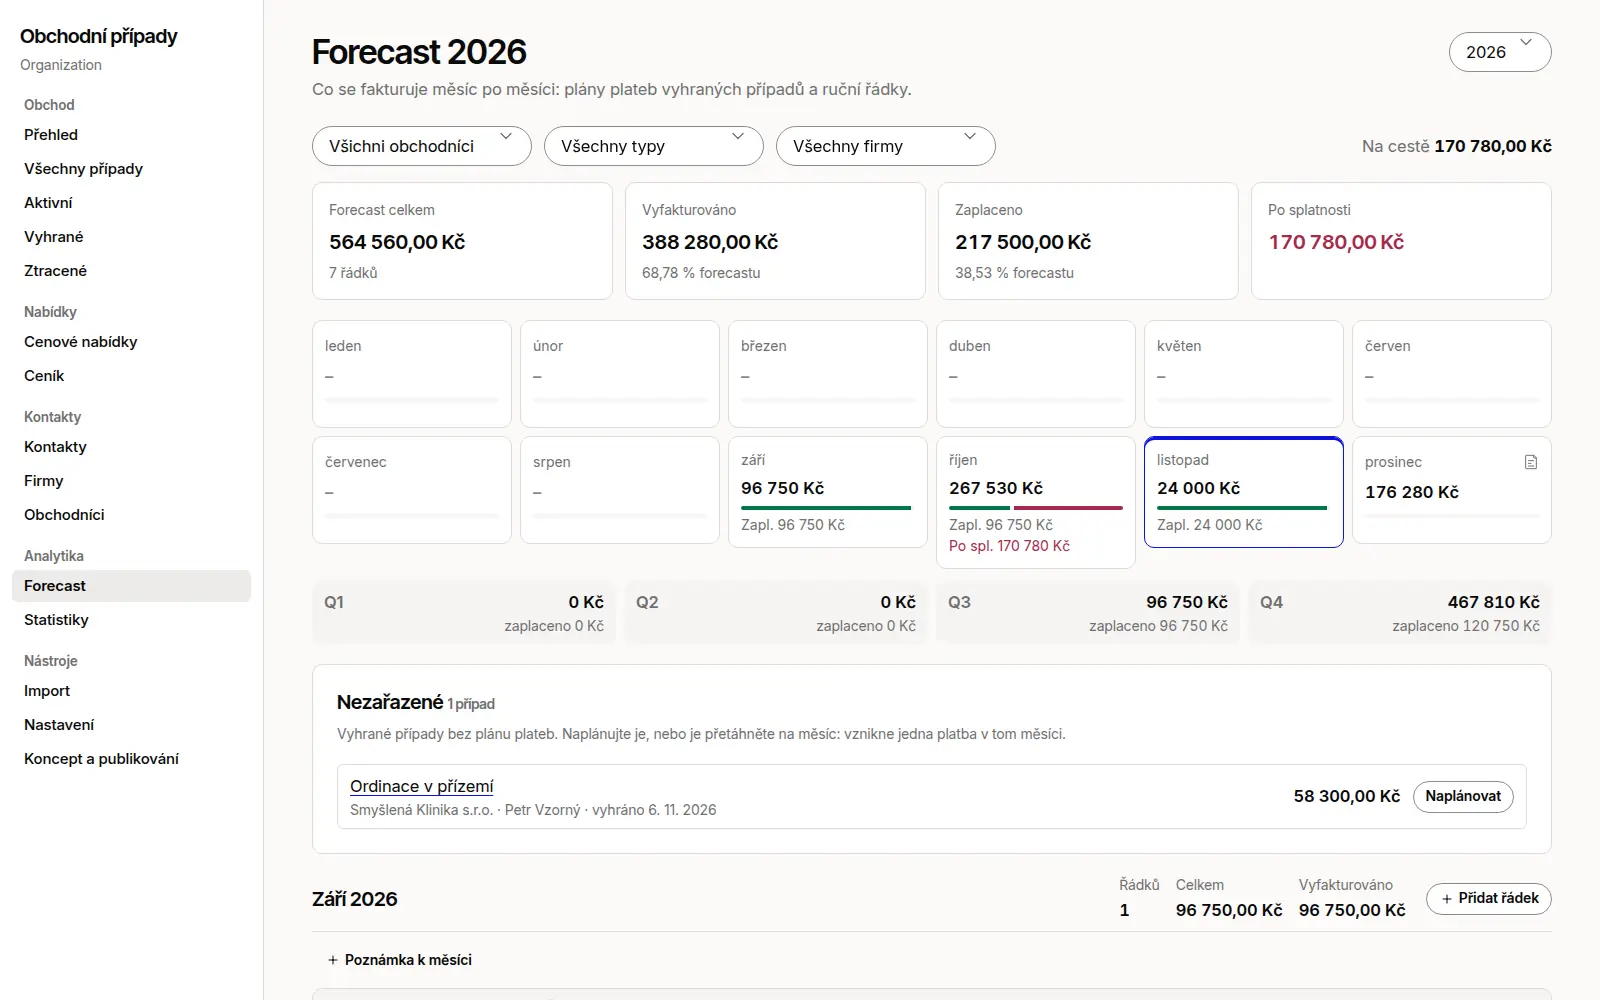
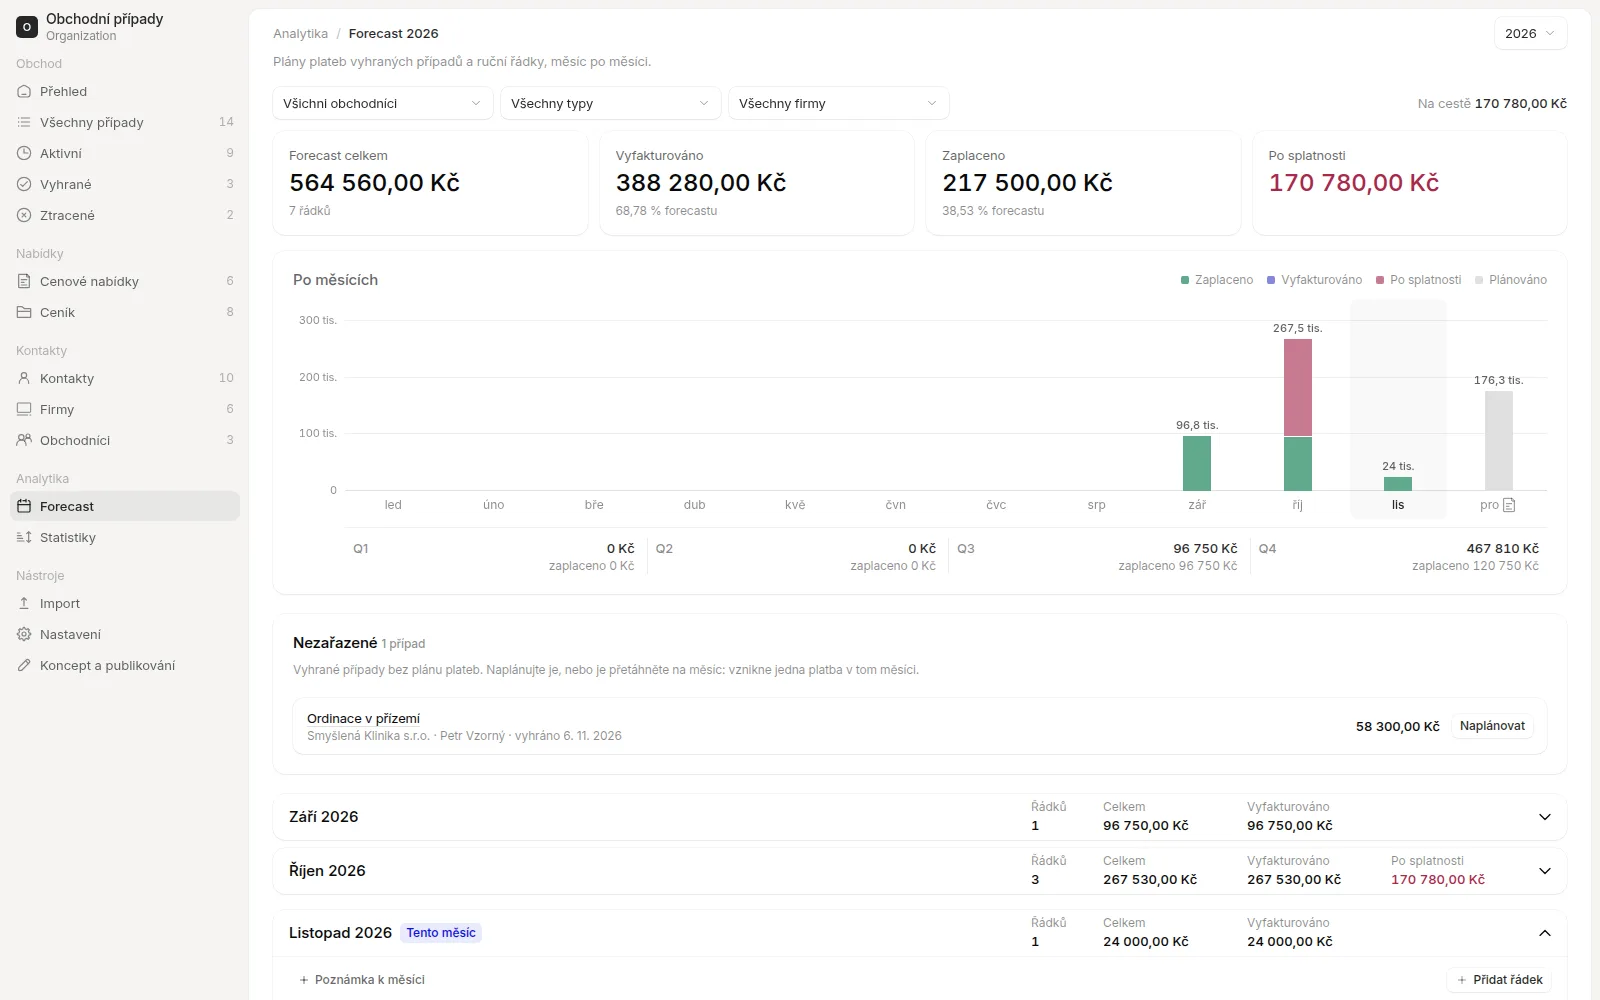
Release 0.3.0: changelog, version, screenshots
The changelog gathers the look and the UX fixes of this pull request under
0.3.0; the data does not change, so an Organization on 0.2.0 takes it as a
merge (README). The six screens of the README are taken again in both
languages at 1600 x 1000 from the demo's fictional data.

diff --git a/CHANGELOG.md b/CHANGELOG.md
@@ -2,23 +2,56 @@
 
 ## Unreleased
 
+## 0.3.0 — 2026-11-28
+
+0.3.0 gives Deals a quieter, denser look and a round of UX fixes. The data
+does not change: an Organization on 0.2.0 takes the release as a merge,
+without a migration. An Organization on its own design system keeps its
+brand: every colour still comes from the design system's tokens.
+
 ### For whoever uses it
 
-- **A quieter, denser look.** The pages, flows and data stay as they were;
-  how they look changes. Small type and two weights, grays in steps of the
-  ink, hairlines instead of borders, dense table rows, tinted pills for
+- **A quieter, denser look.** Small type and two weights, grays in steps of
+  the ink, hairlines instead of borders, dense table rows, tinted pills for
   stages and quote statuses (also where they are chosen in a row), the
   navigation with icons and counts on a gray frame and the page on a white
-  panel set into it. A page starts with one quiet row: where it sits and
-  its actions; a record's page adds its name as a large title. The board,
-  the overview's pipeline, the tiles, the forecast months and the charts
-  follow the same language, in the light and the dark theme.
+  panel set into it. A page starts with one quiet row: where it sits and its
+  actions; a record's page adds its name as a large title. The board, the
+  overview's pipeline, the tiles, the charts and the dialogs follow the same
+  language, in the light and the dark theme.
+- **The forecast by month is a column chart**: paid, invoiced, overdue and
+  still planned stacked per month, the quarters under them. A column opens
+  its month and still takes a won deal dragged onto it. The months under the
+  chart are rows that open; the current month is open.
+- **Quote lines as a compact table**: one row per line (item with its
+  description and price-list code, quantity, unit, unit price, discount,
+  total); on a narrow screen a line wraps to the item, then the numbers.
+- **A new contact in a dialog**, from the contacts and from a company.
+- **The language in the settings**: Czech, English or as in Lazurio, for the
+  person in this browser only.
+- **Statistics**: four main tiles (won, value won, conversion, pipeline) and
+  the supporting four in a smaller row.
+- **Unsaved changes** keep the save at the bottom of the screen on a deal, a
+  company, a contact and a salesperson.
+- **A closed deal** shows one button, „Upravit uzavření“; turning a won deal
+  into a lost one, or back, is inside that dialog. The closing buttons say
+  what they do („Označit jako vyhraný“, „Označit jako ztracený“).
+- **Quieter pages**: the overview's pipeline cards carry no stage select, the
+  deals table no quote dot, page subtitles are one short line or none.
+- **Phones**: the navigation folds behind a Menu button, tables keep one line
+  per row and scroll sideways, tiles fit at 320 px, dialogs open as a sheet
+  from the bottom.
 
 ### For whoever changes it
 
 - **The look layer** `app/v3/src/ui/styles/look.css` (see
   [`docs/extending.md`](docs/extending.md), "The look of the App"): sizes and
-  density on top of the design system; colours stay its `--ds-*` tokens.
+  density on top of the design system (`--deals-*`); colours stay its
+  `--ds-*` tokens. The App's CSS is its layout plus this layer (`AGENTS.md`).
+- **The language** comes from `?lang`, then the person's choice
+  (`readLocaleChoice` in `src/ui/locale.ts`, kept in the browser), then the
+  Lazurio profile, then Czech.
+- `useRecordForm` tells whether a form has unsaved values (`touched`).
 
 ## 0.2.0 — 2026-11-26
 

diff --git a/README.md b/README.md
@@ -152,7 +152,8 @@ creates a private Module with its data repository by `lazurio module create
 in the person's language and opens pull requests. Nothing is merged, published
 or sent without the person's instruction. An Organization on 0.1.x takes
 0.2.0 with the migration of its data ([`docs/adoption.md`](docs/adoption.md),
-"Taking 0.2.0").
+"Taking 0.2.0"); 0.3.0 changes only the look and the pages, not the data, and
+is taken as a merge.
 
 ## Screens
 
